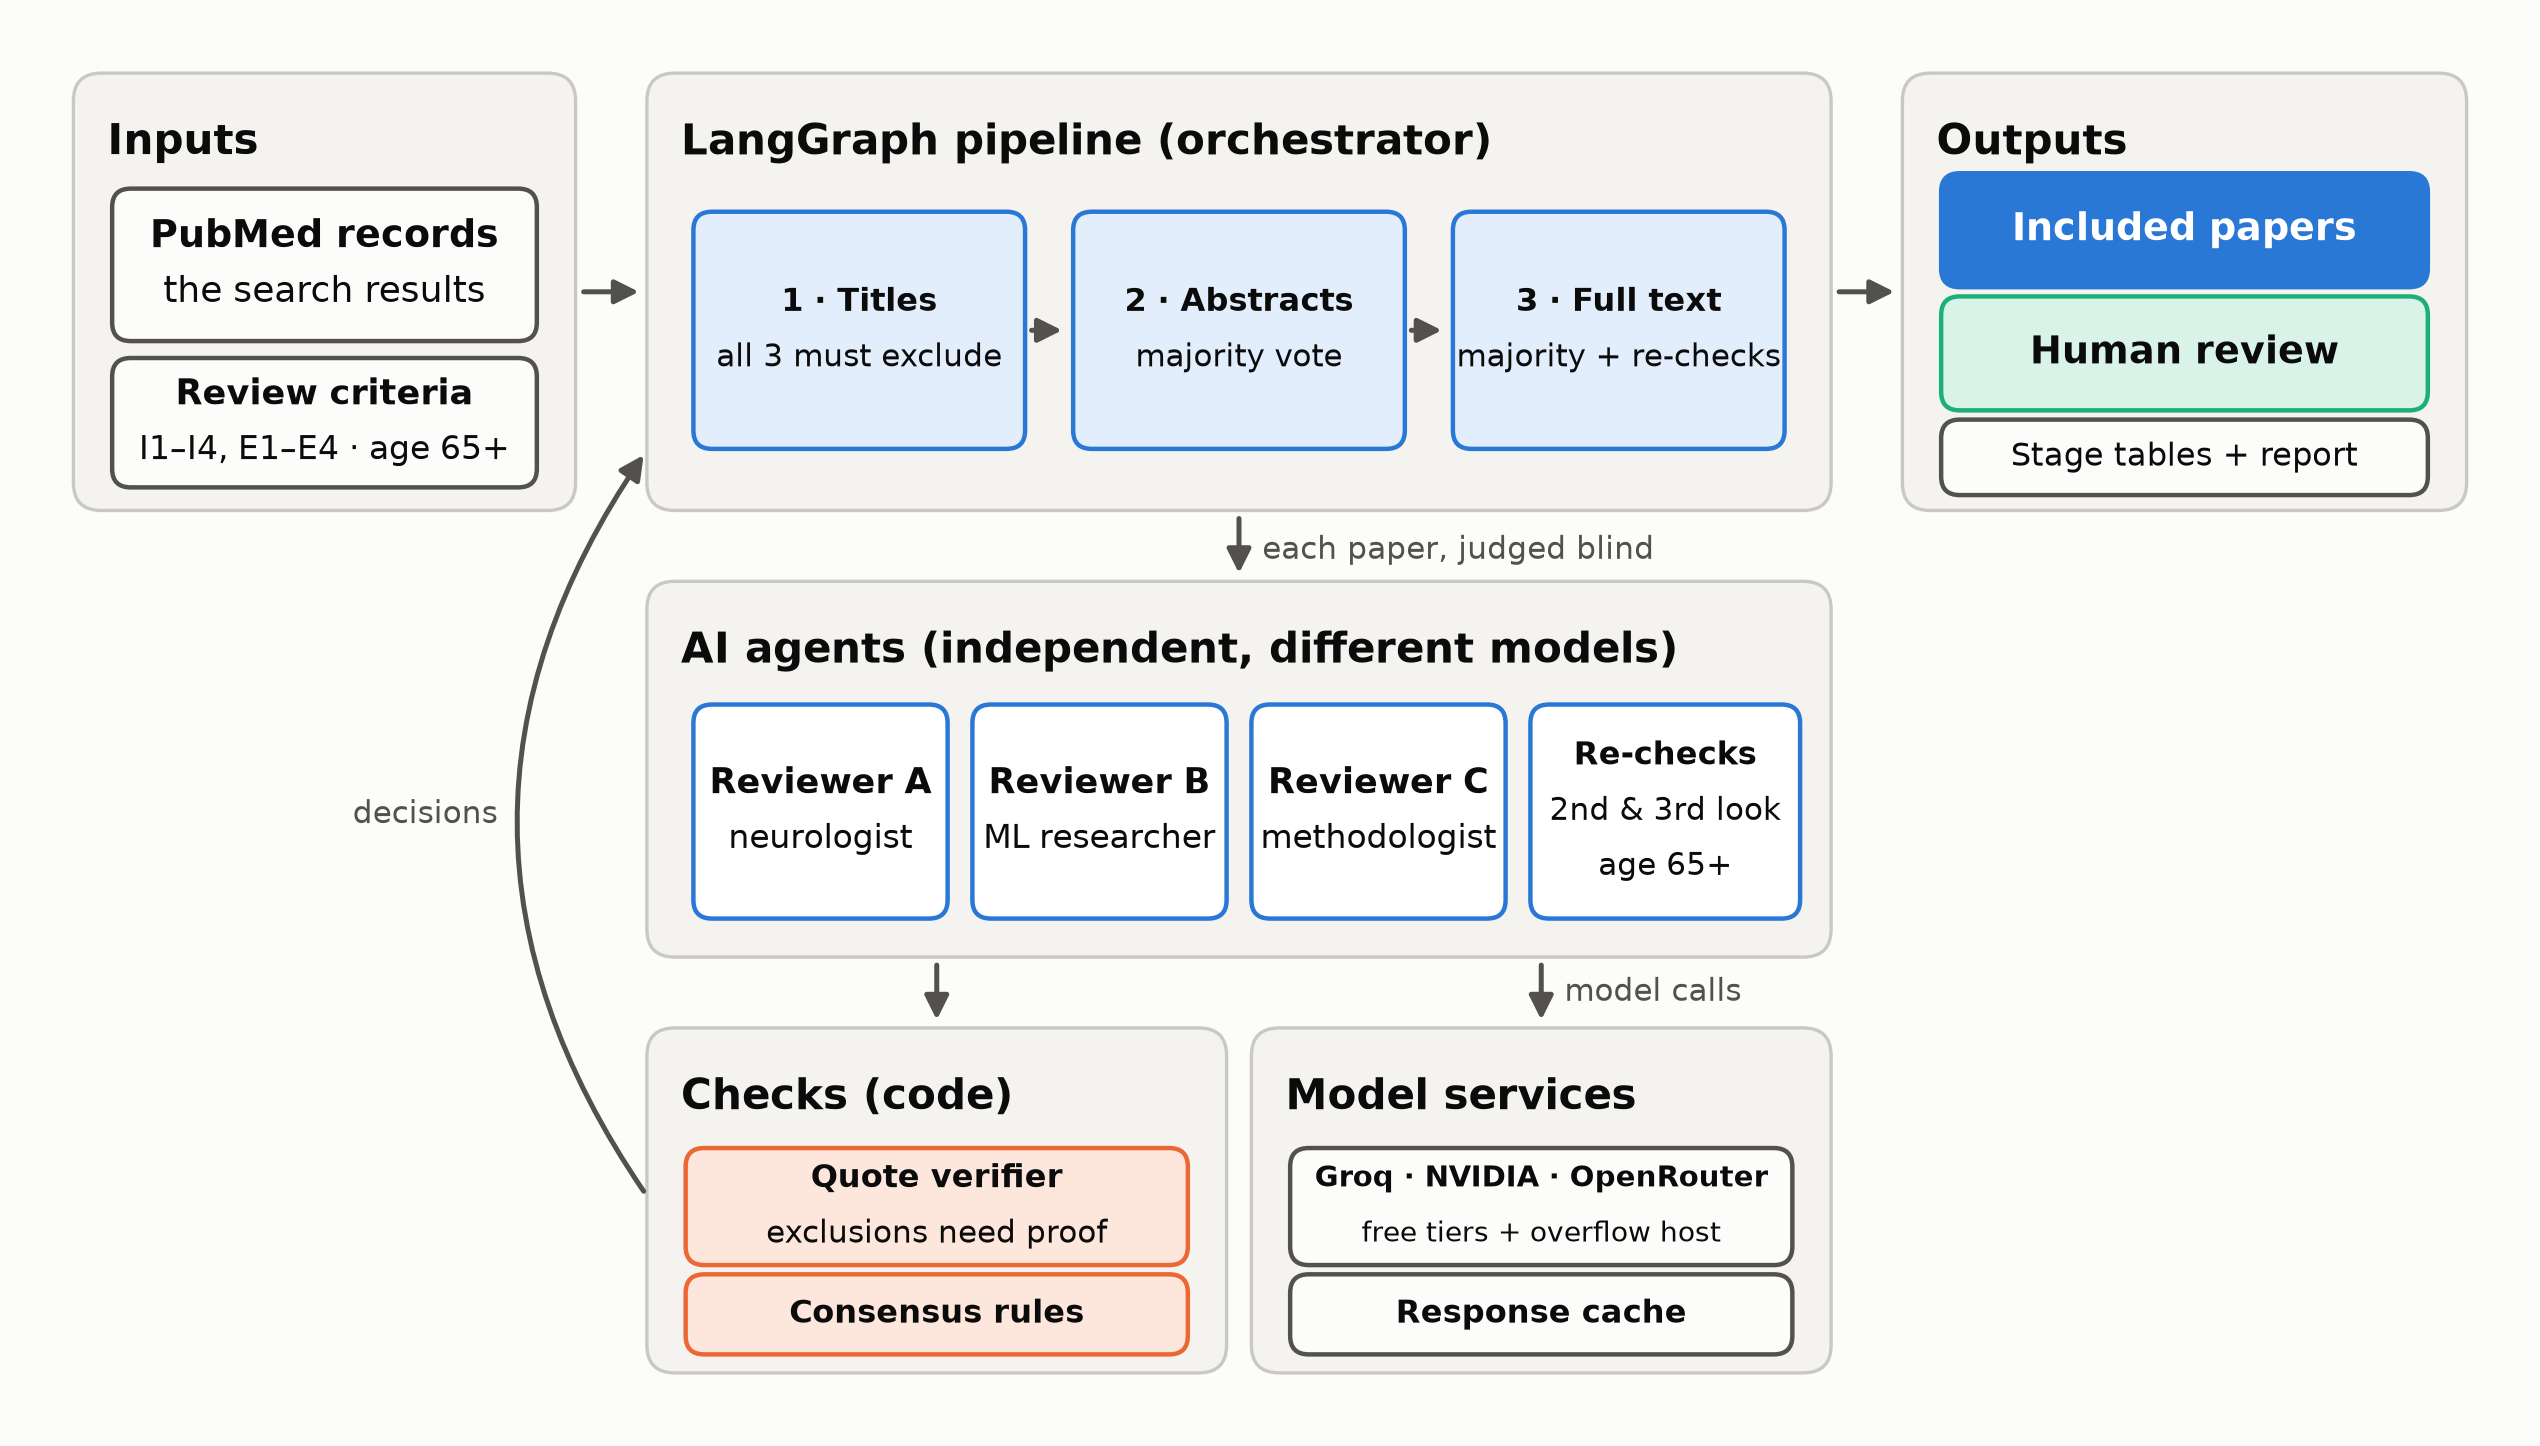
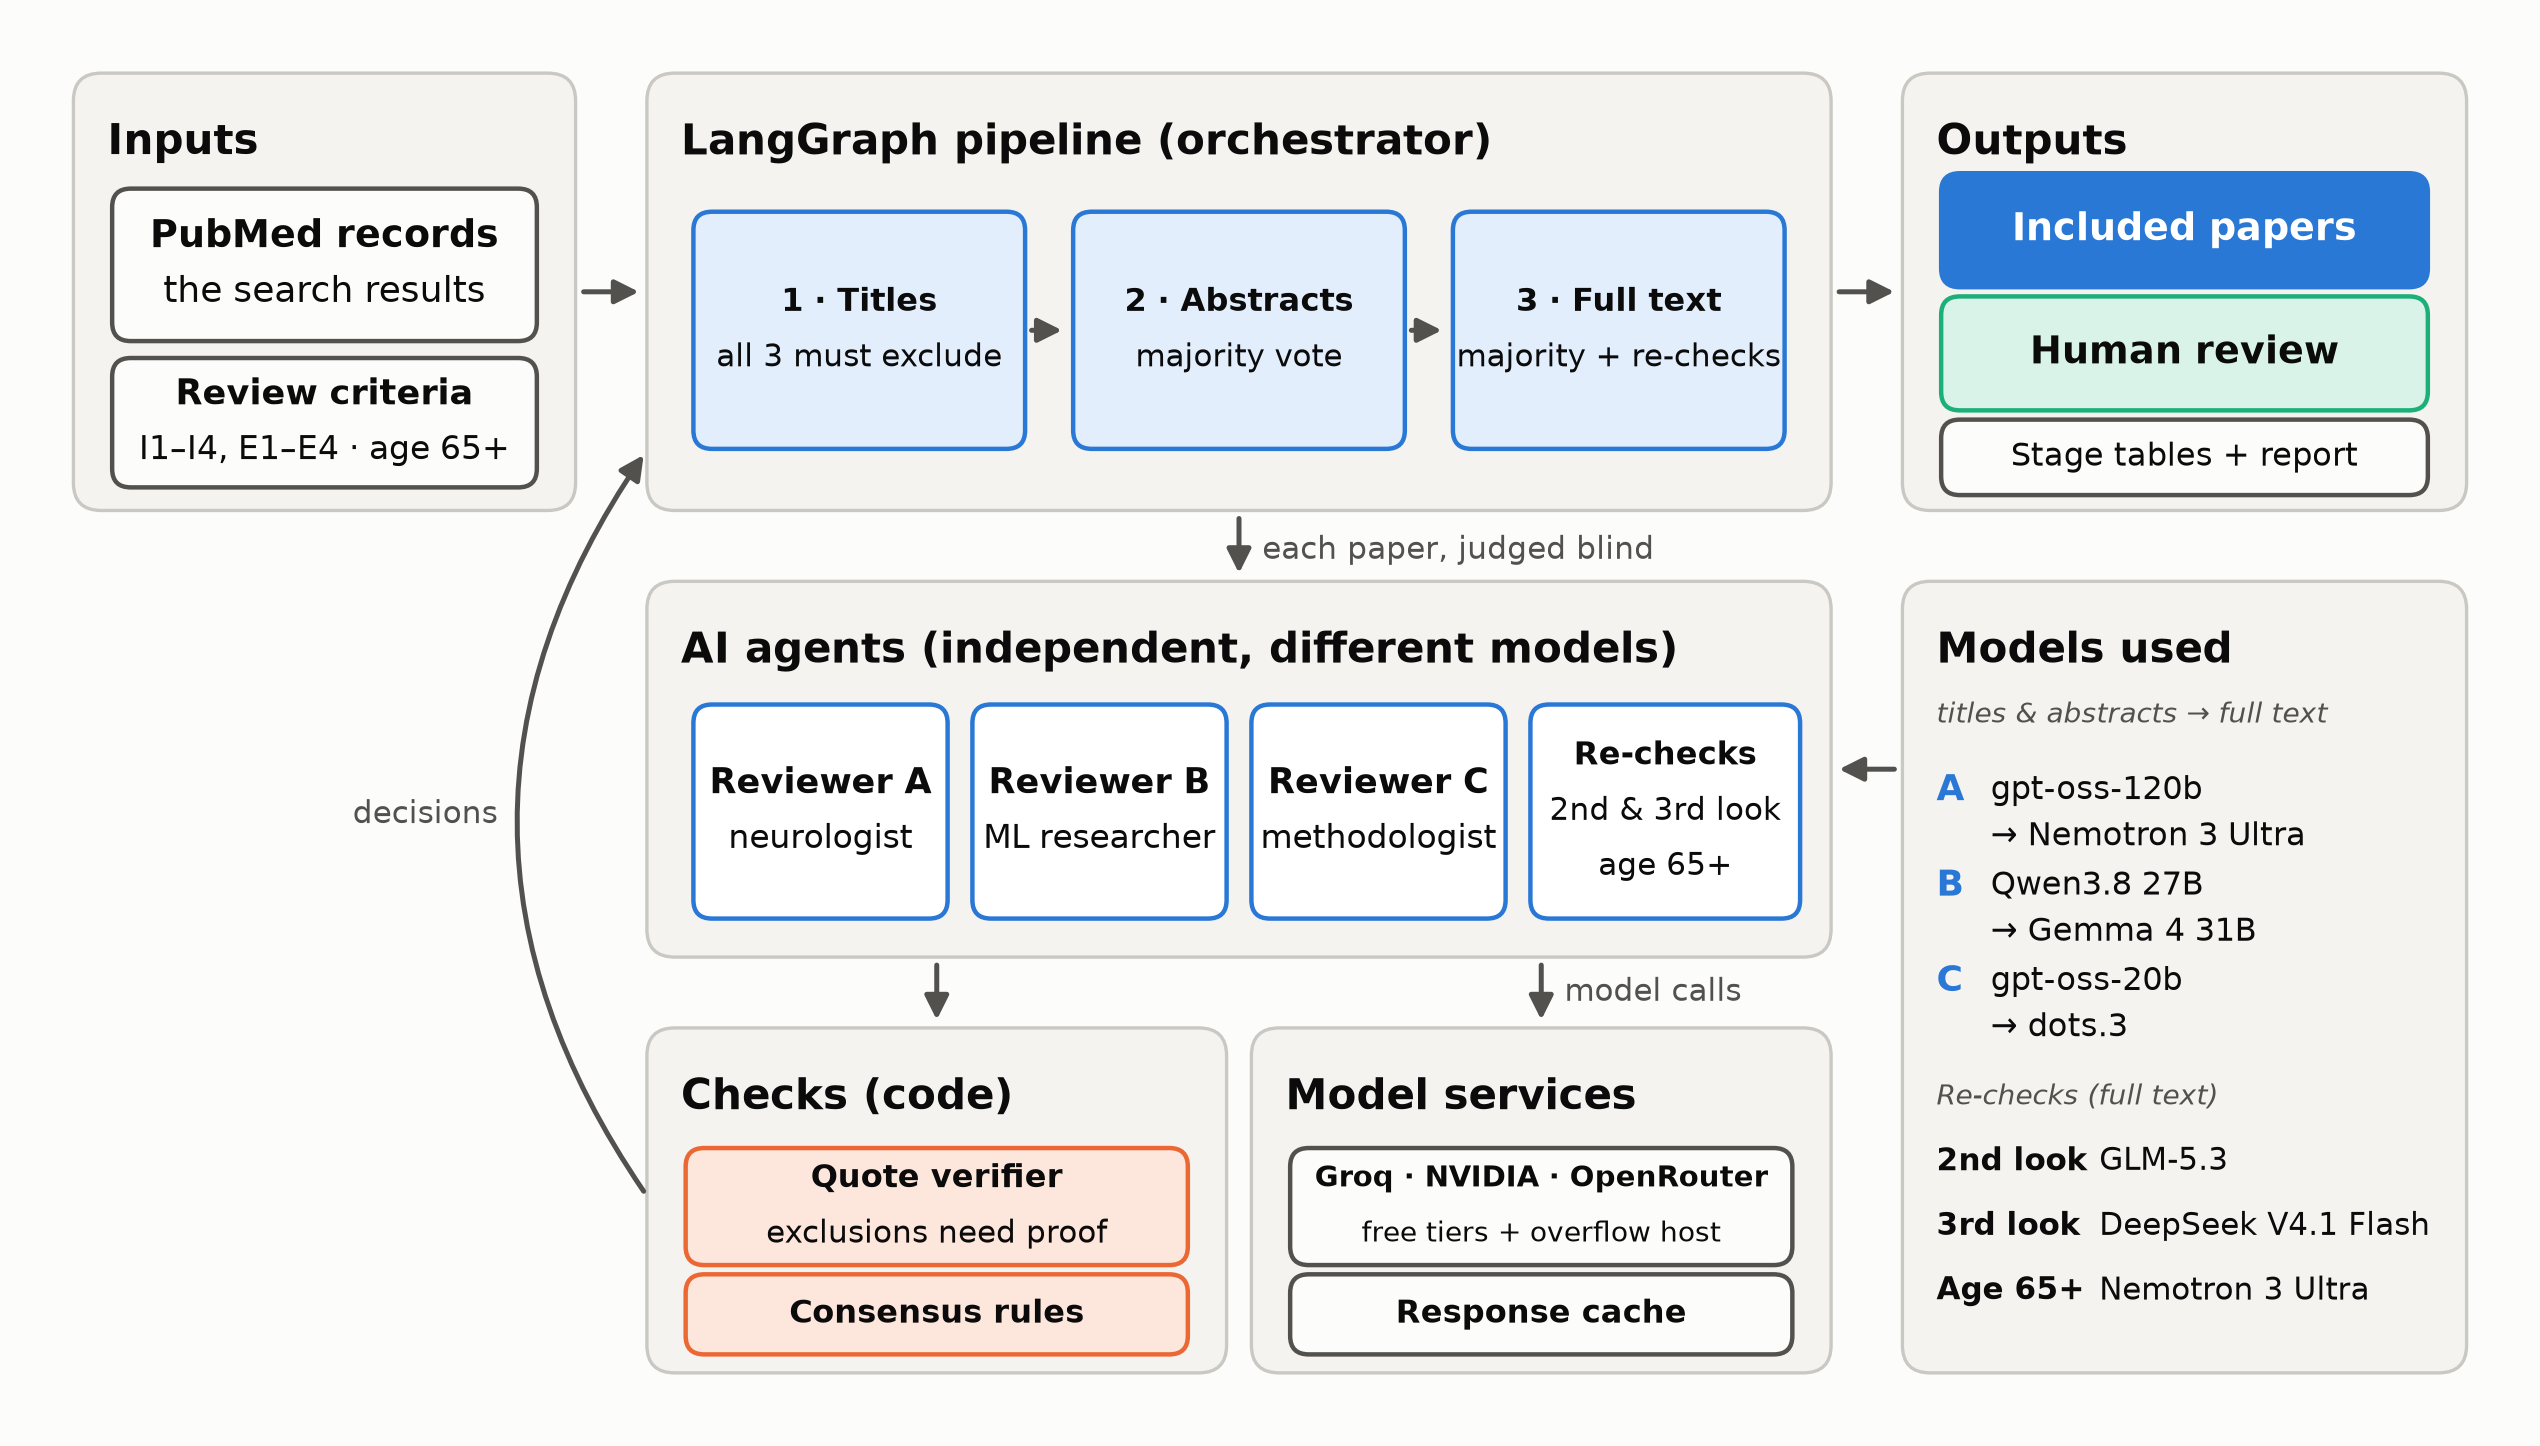
Architecture slide: which model did what

diff --git a/docs/diagrams/src/architecture_slide.py b/docs/diagrams/src/architecture_slide.py
@@ -81,10 +81,28 @@ box(8.15, 1.0, 3.2, 0.72, "Groq · NVIDIA · OpenRouter\nfree tiers + overflow h
 box(8.15, 0.42, 3.2, 0.48, "Response cache", fc=SURFACE, ec=INK2, size=11)
 
 arrow((5.85, 3.0), (5.85, 2.5))        # agents -> checks
-arrow((9.75, 3.0), (9.75, 2.5))  # agents -> models
+arrow((9.75, 3.0), (9.75, 2.5))        # agents -> models
 ax.text(9.9, 2.75, "model calls", fontsize=11, color=INK2, va="center")
 arrow((4.0, 1.4), (4.0, 6.3), rad=-0.35)    # checks -> pipeline decisions
 ax.text(2.55, 3.85, "decisions", fontsize=11, color=INK2, ha="center")
+
+# Right column: which model did what
+panel(12.1, 0.3, 3.6, 5.1, "Models used")
+y = 4.55
+ax.text(12.3, y, "titles & abstracts → full text", fontsize=10, color=INK2, style="italic", va="center")
+for who, m1, m2 in (("A", "gpt-oss-120b", "Nemotron 3 Ultra"), ("B", "Qwen3.8 27B", "Gemma 4 31B"),
+                    ("C", "gpt-oss-20b", "dots.3")):
+    y -= 0.62
+    ax.text(12.3, y + 0.13, who, fontsize=13, fontweight="bold", color=BLUE, va="center")
+    ax.text(12.65, y + 0.13, m1, fontsize=11.5, color=INK, va="center")
+    ax.text(12.65, y - 0.17, f"→ {m2}", fontsize=11.5, color=INK, va="center")
+y -= 0.62
+ax.text(12.3, y, "Re-checks (full text)", fontsize=10, color=INK2, style="italic", va="center")
+for what, m in (("2nd look", "GLM-5.3"), ("3rd look", "DeepSeek V4.1 Flash"), ("Age 65+", "Nemotron 3 Ultra")):
+    y -= 0.42
+    ax.text(12.3, y, what, fontsize=11, fontweight="bold", color=INK, va="center")
+    ax.text(13.35, y, m, fontsize=11, color=INK, va="center")
+arrow((12.1, 4.2), (11.6, 4.2))
 
 out = Path(__file__).resolve().parents[1] / "architecture-slide.png"
 fig.savefig(out, dpi=200, bbox_inches="tight", pad_inches=0.15, facecolor=SURFACE)

diff --git a/docs/diagrams/README.md b/docs/diagrams/README.md
@@ -8,7 +8,7 @@ Everything here is generated, never drawn by hand, so it can be redrawn after an
 |---|---|---|
 | [system-overview.png](system-overview.png) | the whole system as built: protocol, ingestion, the three stages, verifier, second look, professor, outputs | `src/system-overview.mmd` |
 | [system-overview-slide.png](system-overview-slide.png) | the same on one slide: stages, decision rules and final counts only | `src/system-overview-slide.mmd` |
-| [architecture-slide.png](architecture-slide.png) | system architecture on one 16:9 slide: inputs, pipeline, AI agents, checks, model services, outputs | `src/architecture_slide.py` (matplotlib, fixed layout) |
+| [architecture-slide.png](architecture-slide.png) | system architecture on one 16:9 slide: inputs, pipeline, AI agents, checks, model services, outputs, and which model did what | `src/architecture_slide.py` (matplotlib, fixed layout) |
 | [pipeline-as-run.png](pipeline-as-run.png) | the LangGraph path the free run takes; nodes switched off in this run are grey dashed | `src/pipeline-as-run.mmd` |
 | [langgraph-full.png](langgraph-full.png) | the complete compiled graph, exported from the code (`graph.get_graph().draw_mermaid()`) | `src/langgraph_PROF_search_free.mmd` |
 | [consensus-by-stage.png](consensus-by-stage.png) | one reviewer's rule marks and quote check; the panel rule at titles, abstracts and full text | `src/consensus-by-stage.mmd` |
